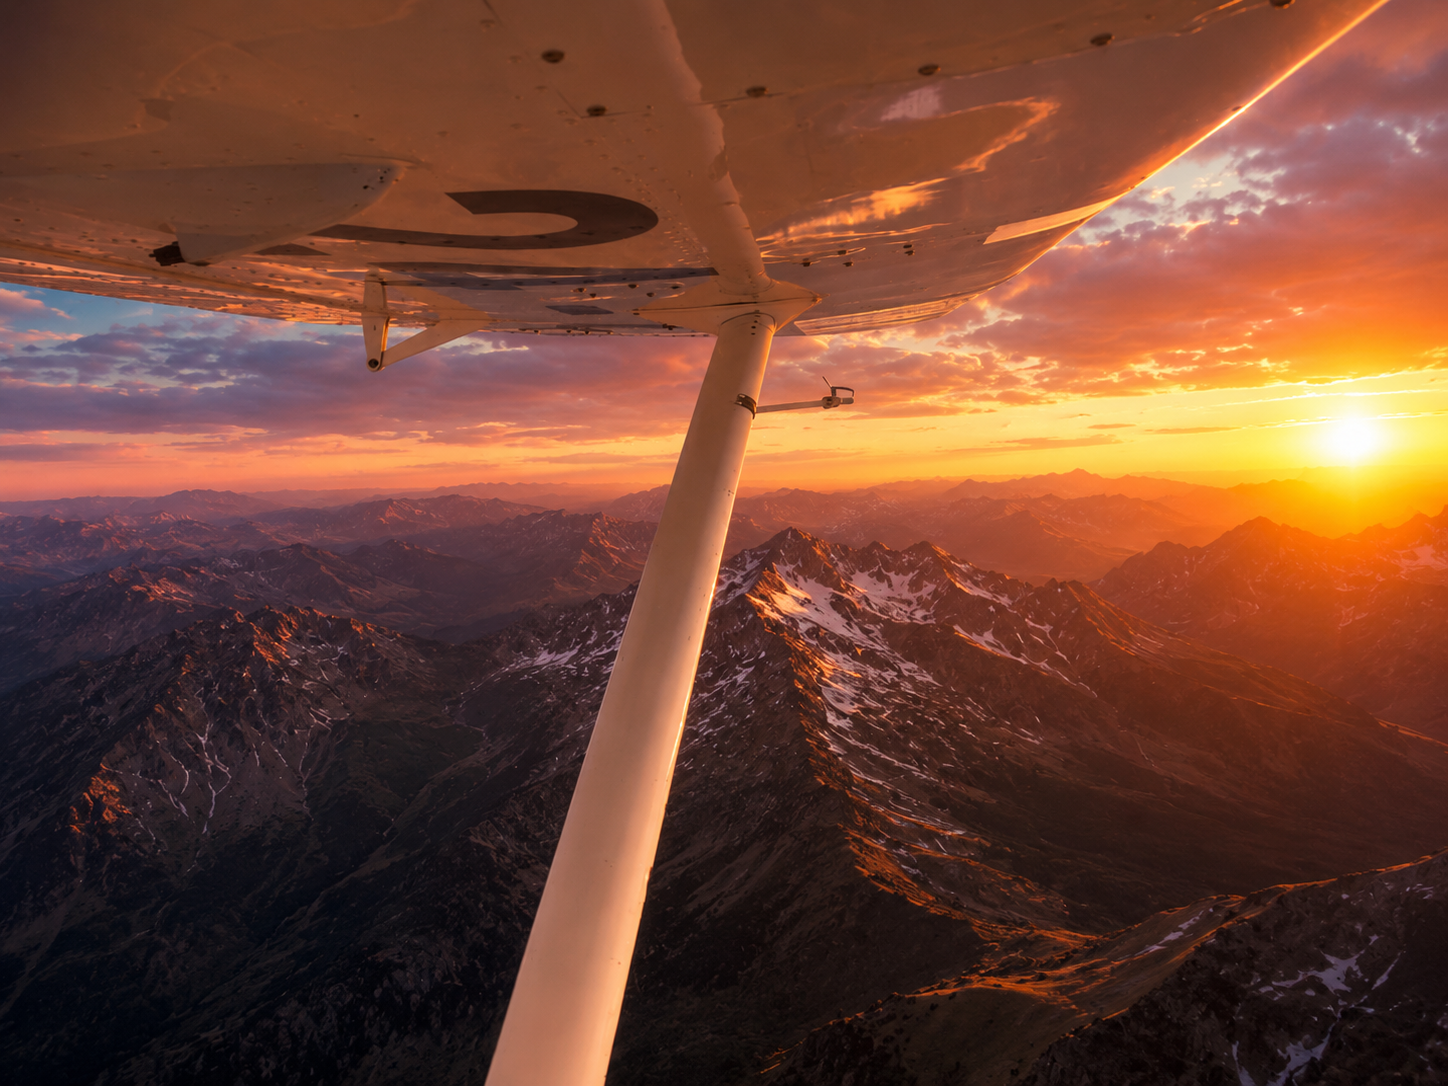
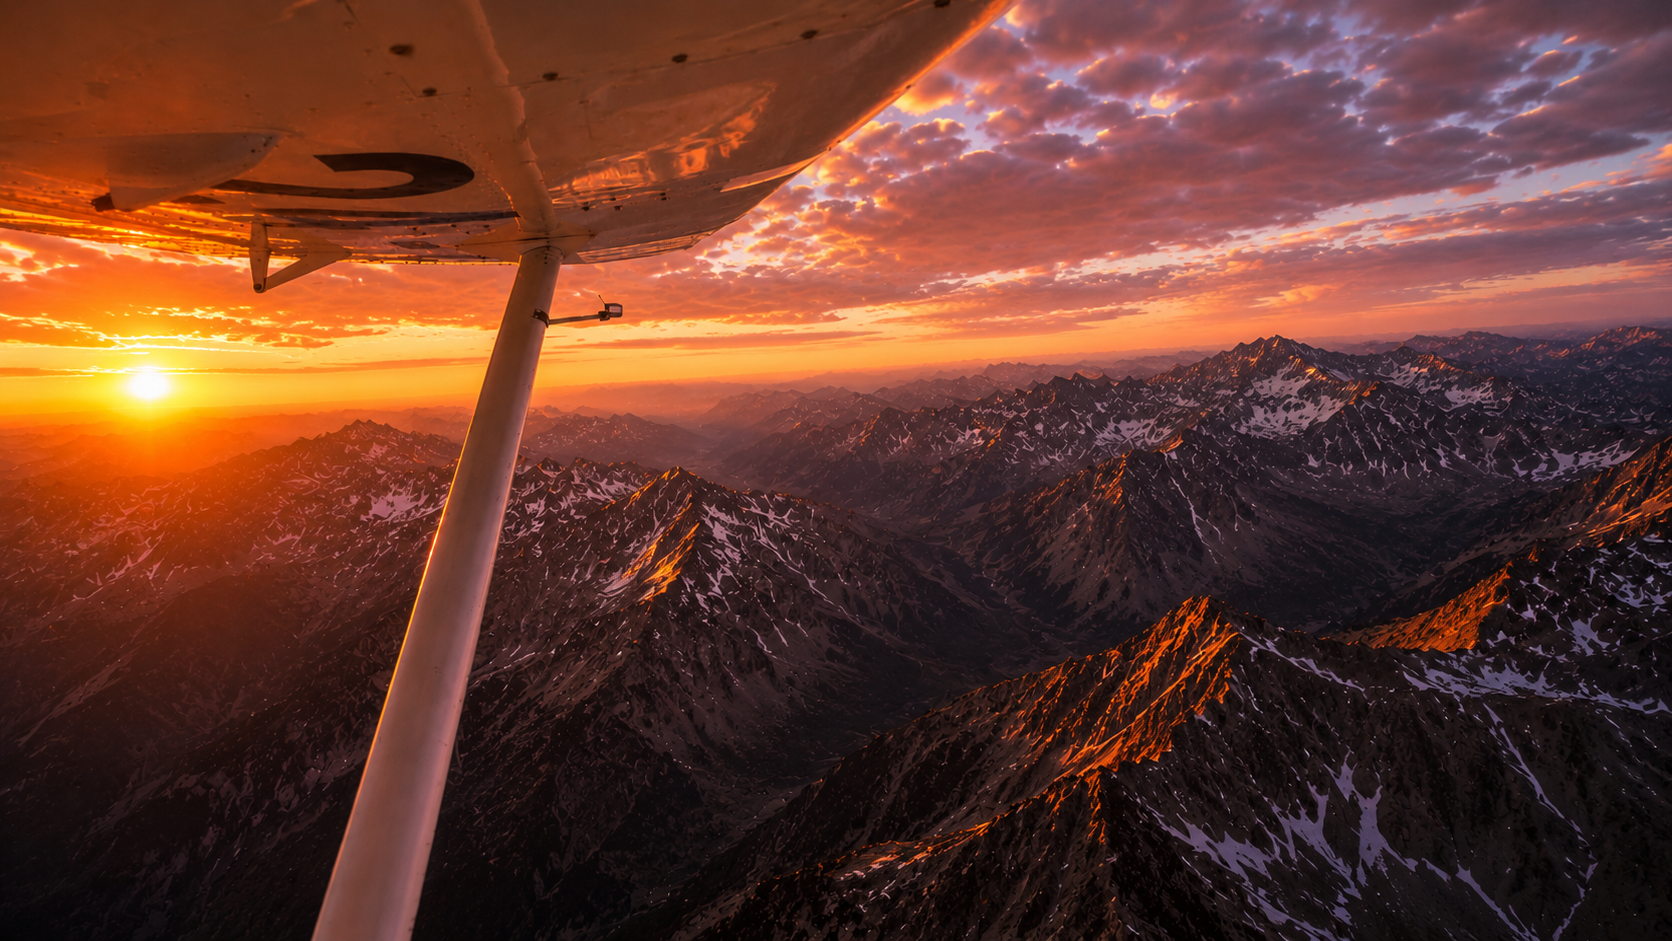
Update auth background experience

diff --git a/src/index.css b/src/index.css
@@ -40,6 +40,98 @@
     backface-visibility: hidden;
   }
 
+  .auth-hero-image,
+  .auth-hero-shade {
+    transform: translateZ(0);
+  }
+
+  .auth-login-wash {
+    background:
+      radial-gradient(34rem 26rem at 82% 16%, rgb(248 251 255 / 0.86), rgb(248 251 255 / 0.28) 56%, transparent 74%),
+      radial-gradient(38rem 30rem at 84% 84%, rgb(248 251 255 / 0.78), rgb(248 251 255 / 0.24) 58%, transparent 78%),
+      linear-gradient(100deg, transparent 0%, transparent 42%, rgb(248 251 255 / 0.18) 55%, rgb(248 251 255 / 0.72) 76%, #f8fbff 100%);
+  }
+
+  .auth-cloud-transition {
+    --auth-cloud-surface: #f8fbff;
+    overflow: hidden;
+    mix-blend-mode: normal;
+    -webkit-mask-image:
+      radial-gradient(22rem 22rem at 36% 50%, #000 0 36%, transparent 82%),
+      linear-gradient(103deg, transparent 0%, #000 20%, #000 54%, transparent 100%);
+    mask-image:
+      radial-gradient(22rem 22rem at 36% 50%, #000 0 36%, transparent 82%),
+      linear-gradient(103deg, transparent 0%, #000 20%, #000 54%, transparent 100%);
+    -webkit-mask-composite: source-in;
+    mask-composite: intersect;
+    background:
+      radial-gradient(18rem 15rem at 30% 18%, rgb(248 251 255 / 0.16) 0 38%, transparent 78%),
+      radial-gradient(22rem 18rem at 40% 55%, rgb(248 251 255 / 0.2) 0 36%, transparent 80%),
+      radial-gradient(18rem 15rem at 30% 86%, rgb(248 251 255 / 0.16) 0 38%, transparent 78%);
+    background-repeat: no-repeat;
+    background-size: 100% 100%;
+    opacity: 0.3;
+    transform: translateX(-6px);
+  }
+
+  .auth-cloud-transition::before,
+  .auth-cloud-transition::after {
+    position: absolute;
+    inset: -6% 0;
+    content: '';
+    background-repeat: repeat-y;
+    background-size: 100% 260px;
+    filter: blur(18px);
+    will-change: transform;
+  }
+
+  .auth-cloud-transition::before {
+    background-image:
+      radial-gradient(82px 54px at 45% 8%, rgb(255 255 255 / 0.62) 0 48%, rgb(255 255 255 / 0) 72%),
+      radial-gradient(118px 74px at 68% 24%, rgb(255 255 255 / 0.9) 0 46%, rgb(255 255 255 / 0) 74%),
+      radial-gradient(94px 64px at 48% 44%, rgb(255 255 255 / 0.72) 0 44%, rgb(255 255 255 / 0) 72%),
+      radial-gradient(124px 78px at 70% 64%, rgb(255 255 255 / 0.92) 0 45%, rgb(255 255 255 / 0) 74%),
+      radial-gradient(86px 58px at 50% 88%, rgb(255 255 255 / 0.68) 0 46%, rgb(255 255 255 / 0) 72%);
+    opacity: 0.22;
+    animation: auth-cloud-drift 18s ease-in-out infinite alternate;
+  }
+
+  .auth-cloud-transition::after {
+    background-image:
+      radial-gradient(92px 56px at 56% 4%, rgb(248 251 255 / 0.52) 0 42%, rgb(248 251 255 / 0) 70%),
+      radial-gradient(120px 76px at 40% 28%, rgb(248 251 255 / 0.72) 0 44%, rgb(248 251 255 / 0) 72%),
+      radial-gradient(110px 72px at 58% 54%, rgb(248 251 255 / 0.66) 0 43%, rgb(248 251 255 / 0) 72%),
+      radial-gradient(128px 78px at 42% 82%, rgb(248 251 255 / 0.74) 0 44%, rgb(248 251 255 / 0) 72%);
+    opacity: 0.18;
+    transform: translateX(-12px);
+    animation: auth-cloud-drift-reverse 24s ease-in-out infinite alternate;
+  }
+
+  @media (prefers-reduced-motion: reduce) {
+    .auth-cloud-transition::before,
+    .auth-cloud-transition::after {
+      animation: none;
+    }
+  }
+
+  @keyframes auth-cloud-drift {
+    from {
+      transform: translate3d(-8px, -10px, 0) scaleX(1.02);
+    }
+    to {
+      transform: translate3d(8px, 14px, 0) scaleX(1.08);
+    }
+  }
+
+  @keyframes auth-cloud-drift-reverse {
+    from {
+      transform: translate3d(10px, 12px, 0) scaleX(1.04);
+    }
+    to {
+      transform: translate3d(-10px, -16px, 0) scaleX(1.08);
+    }
+  }
+
   .calendar-booking-interaction-active .app-sticky-header,
   .calendar-booking-interaction-active .resource-calendar-grid {
     transform: translateZ(0);

diff --git a/src/components/Auth/ForgotPasswordForm.tsx b/src/components/Auth/ForgotPasswordForm.tsx
@@ -45,15 +45,16 @@ export const ForgotPasswordForm: React.FC<ForgotPasswordFormProps> = ({ onBackTo
   };
 
   return (
-    <div className="auth-light-surface min-h-screen bg-white lg:grid lg:grid-cols-2">
-      <div className="relative hidden min-h-screen overflow-hidden lg:flex">
-        <img
-          src="/auth-aircraft-sunset.png"
-          alt="Aircraft wing at sunset"
-          className="absolute inset-0 h-full w-full object-cover"
-        />
-        <div className="absolute inset-0 bg-gradient-to-br from-black/35 via-black/10 to-black/50" />
-        <div className="pointer-events-none absolute inset-y-0 right-0 w-48 bg-gradient-to-r from-transparent via-white/25 to-white" />
+    <div className="auth-light-surface relative min-h-screen overflow-hidden bg-[#f8fbff] lg:grid lg:grid-cols-2">
+      <img
+        src="/auth-aircraft-sunset.png"
+        alt="Aircraft wing at sunset"
+        className="auth-hero-image absolute inset-0 h-full w-full object-cover object-left-center"
+      />
+      <div className="auth-hero-shade absolute inset-0 bg-gradient-to-br from-black/45 via-black/15 to-black/35" />
+      <div className="auth-login-wash pointer-events-none absolute inset-0" />
+
+      <div className="relative hidden min-h-screen lg:flex">
         <div className="relative z-10 flex w-full flex-col items-center justify-center px-12 text-center text-white">
           <div className="mb-6 flex h-14 w-14 items-center justify-center rounded-full bg-white/15 backdrop-blur">
             <Plane className="h-7 w-7" />
@@ -65,14 +66,14 @@ export const ForgotPasswordForm: React.FC<ForgotPasswordFormProps> = ({ onBackTo
         </div>
       </div>
 
-      <div className="flex min-h-screen items-center justify-center bg-gradient-to-br from-slate-50 to-blue-50 px-4 py-10 sm:px-6 lg:bg-white lg:px-10">
-        <div className="w-full max-w-lg">
+      <div className="relative flex min-h-screen items-center justify-center bg-transparent px-4 py-10 sm:px-6 lg:-ml-px lg:px-10">
+        <div className="relative z-20 w-full max-w-lg">
           <div className="mb-8 text-center lg:hidden">
             <div className="mx-auto mb-4 flex h-16 w-16 items-center justify-center rounded-full bg-blue-600">
               <Plane className="h-8 w-8 text-white" />
             </div>
-            <h2 className="text-3xl font-extrabold text-gray-900">Bendigo Flying Club</h2>
-            <p className="mt-2 text-gray-600">Reset Password</p>
+            <h2 className="text-3xl font-extrabold text-white drop-shadow">Bendigo Flying Club</h2>
+            <p className="mt-2 text-white/90 drop-shadow">Reset Password</p>
           </div>
 
         <div className="rounded-2xl border border-gray-200 bg-white p-8 shadow-xl">

diff --git a/src/components/Auth/LoginForm.tsx b/src/components/Auth/LoginForm.tsx
@@ -46,15 +46,16 @@ export const LoginForm: React.FC = () => {
   }
 
   return (
-    <div className="auth-light-surface min-h-screen bg-white lg:grid lg:grid-cols-2">
-      <div className="relative hidden min-h-screen overflow-hidden lg:flex">
-        <img
-          src="/auth-aircraft-sunset.png"
-          alt="Aircraft wing at sunset"
-          className="absolute inset-0 h-full w-full object-cover"
-        />
-        <div className="absolute inset-0 bg-gradient-to-br from-black/35 via-black/15 to-black/45" />
-        <div className="pointer-events-none absolute inset-y-0 right-0 w-48 bg-gradient-to-r from-transparent via-white/25 to-white" />
+    <div className="auth-light-surface relative min-h-screen overflow-hidden bg-[#f8fbff] lg:grid lg:grid-cols-2">
+      <img
+        src="/auth-aircraft-sunset.png"
+        alt="Aircraft wing at sunset"
+        className="auth-hero-image absolute inset-0 h-full w-full object-cover object-left-center"
+      />
+      <div className="auth-hero-shade absolute inset-0 bg-gradient-to-br from-black/45 via-black/15 to-black/35" />
+      <div className="auth-login-wash pointer-events-none absolute inset-0" />
+
+      <div className="relative hidden min-h-screen lg:flex">
         <div className="relative z-10 flex w-full flex-col items-center justify-center px-12 text-center text-white">
           <div className="mb-6 flex h-14 w-14 items-center justify-center rounded-full bg-white/15 backdrop-blur">
             <Plane className="h-7 w-7" />
@@ -66,14 +67,14 @@ export const LoginForm: React.FC = () => {
         </div>
       </div>
 
-      <div className="flex min-h-screen items-center justify-center bg-gradient-to-br from-slate-50 to-blue-50 px-4 py-10 sm:px-6 lg:bg-white lg:px-10">
-        <div className="w-full max-w-lg">
+      <div className="relative flex min-h-screen items-center justify-center bg-transparent px-4 py-10 sm:px-6 lg:-ml-px lg:px-10">
+        <div className="relative z-20 w-full max-w-lg">
           <div className="mb-8 text-center lg:hidden">
             <div className="mx-auto mb-4 flex h-16 w-16 items-center justify-center rounded-full bg-blue-600">
               <Plane className="h-8 w-8 text-white" />
             </div>
-            <h2 className="text-3xl font-extrabold text-gray-900">Bendigo Flying Club</h2>
-            <p className="mt-2 text-gray-600">Members Flight Management System</p>
+            <h2 className="text-3xl font-extrabold text-white drop-shadow">Bendigo Flying Club</h2>
+            <p className="mt-2 text-white/90 drop-shadow">Members Flight Management System</p>
           </div>
 
         <div className="rounded-2xl border border-gray-200 bg-white p-8 shadow-xl">

diff --git a/src/components/Auth/SignUpForm.tsx b/src/components/Auth/SignUpForm.tsx
@@ -66,15 +66,16 @@ export const SignUpForm: React.FC<SignUpFormProps> = ({ onBackToLogin }) => {
   };
 
   return (
-    <div className="auth-light-surface min-h-screen bg-white lg:grid lg:grid-cols-2">
-      <div className="relative hidden min-h-screen overflow-hidden lg:flex">
-        <img
-          src="/auth-aircraft-sunset.png"
-          alt="Aircraft wing at sunset"
-          className="absolute inset-0 h-full w-full object-cover"
-        />
-        <div className="absolute inset-0 bg-gradient-to-br from-black/35 via-black/10 to-black/50" />
-        <div className="pointer-events-none absolute inset-y-0 right-0 w-48 bg-gradient-to-r from-transparent via-white/25 to-white" />
+    <div className="auth-light-surface relative min-h-screen overflow-hidden bg-[#f8fbff] lg:grid lg:grid-cols-2">
+      <img
+        src="/auth-aircraft-sunset.png"
+        alt="Aircraft wing at sunset"
+        className="auth-hero-image absolute inset-0 h-full w-full object-cover object-left-center"
+      />
+      <div className="auth-hero-shade absolute inset-0 bg-gradient-to-br from-black/45 via-black/15 to-black/35" />
+      <div className="auth-login-wash pointer-events-none absolute inset-0" />
+
+      <div className="relative hidden min-h-screen lg:flex">
         <div className="relative z-10 flex w-full flex-col items-center justify-center px-12 text-center text-white">
           <div className="mb-6 flex h-14 w-14 items-center justify-center rounded-full bg-white/15 backdrop-blur">
             <Plane className="h-7 w-7" />
@@ -86,14 +87,14 @@ export const SignUpForm: React.FC<SignUpFormProps> = ({ onBackToLogin }) => {
         </div>
       </div>
 
-      <div className="flex min-h-screen items-center justify-center bg-gradient-to-br from-slate-50 to-blue-50 px-4 py-10 sm:px-6 lg:bg-white lg:px-10">
-        <div className="w-full max-w-lg">
+      <div className="relative flex min-h-screen items-center justify-center bg-transparent px-4 py-10 sm:px-6 lg:-ml-px lg:px-10">
+        <div className="relative z-20 w-full max-w-lg">
           <div className="mb-8 text-center lg:hidden">
             <div className="mx-auto mb-4 flex h-16 w-16 items-center justify-center rounded-full bg-blue-600">
               <Plane className="h-8 w-8 text-white" />
             </div>
-            <h2 className="text-3xl font-extrabold text-gray-900">Bendigo Flying Club</h2>
-            <p className="mt-2 text-gray-600">Create Account</p>
+            <h2 className="text-3xl font-extrabold text-white drop-shadow">Bendigo Flying Club</h2>
+            <p className="mt-2 text-white/90 drop-shadow">Create Account</p>
           </div>
 
         <div className="rounded-2xl border border-gray-200 bg-white p-8 shadow-xl">

diff --git a/src/components/Kiosk/KioskLoginForm.tsx b/src/components/Kiosk/KioskLoginForm.tsx
@@ -40,15 +40,16 @@ export const KioskLoginForm: React.FC<KioskLoginFormProps> = ({ sessionKey }) =>
   };
 
   return (
-    <div className="kiosk-login-surface min-h-screen bg-white lg:grid lg:grid-cols-2">
-      <div className="relative hidden min-h-screen overflow-hidden lg:flex">
-        <img
-          src="/auth-aircraft-sunset.png"
-          alt="Aircraft wing at sunset"
-          className="absolute inset-0 h-full w-full object-cover"
-        />
-        <div className="absolute inset-0 bg-gradient-to-br from-black/35 via-black/10 to-black/50" />
-        <div className="pointer-events-none absolute inset-y-0 right-0 w-48 bg-gradient-to-r from-transparent via-white/25 to-white" />
+    <div className="kiosk-login-surface relative min-h-screen overflow-hidden bg-[#f8fbff] lg:grid lg:grid-cols-2">
+      <img
+        src="/auth-aircraft-sunset.png"
+        alt="Aircraft wing at sunset"
+        className="auth-hero-image absolute inset-0 h-full w-full object-cover object-left-center"
+      />
+      <div className="auth-hero-shade absolute inset-0 bg-gradient-to-br from-black/45 via-black/15 to-black/35" />
+      <div className="auth-login-wash pointer-events-none absolute inset-0" />
+
+      <div className="relative hidden min-h-screen lg:flex">
         <div className="relative z-10 flex w-full flex-col items-center justify-center px-12 text-center text-white">
           <div className="mb-6 flex h-14 w-14 items-center justify-center rounded-full bg-white/15 backdrop-blur">
             <Plane className="h-7 w-7" />
@@ -60,14 +61,14 @@ export const KioskLoginForm: React.FC<KioskLoginFormProps> = ({ sessionKey }) =>
         </div>
       </div>
 
-      <div className="flex min-h-screen items-center justify-center bg-gradient-to-br from-slate-50 to-blue-50 px-4 py-10 sm:px-6 lg:bg-white lg:px-10">
-        <div className="w-full max-w-lg">
+      <div className="relative flex min-h-screen items-center justify-center bg-transparent px-4 py-10 sm:px-6 lg:-ml-px lg:px-10">
+        <div className="relative z-20 w-full max-w-lg">
           <div className="mb-8 text-center lg:hidden">
             <div className="mx-auto mb-4 flex h-16 w-16 items-center justify-center rounded-full bg-blue-600">
               <Plane className="h-8 w-8 text-white" />
             </div>
-            <h1 className="text-3xl font-extrabold text-gray-900">{businessName}</h1>
-            <p className="mt-2 text-gray-600">Calendar Kiosk</p>
+            <h1 className="text-3xl font-extrabold text-white drop-shadow">{businessName}</h1>
+            <p className="mt-2 text-white/90 drop-shadow">Calendar Kiosk</p>
           </div>
 
         <form onSubmit={handleSubmit} className="rounded-2xl border border-gray-200 bg-white p-8 shadow-xl">